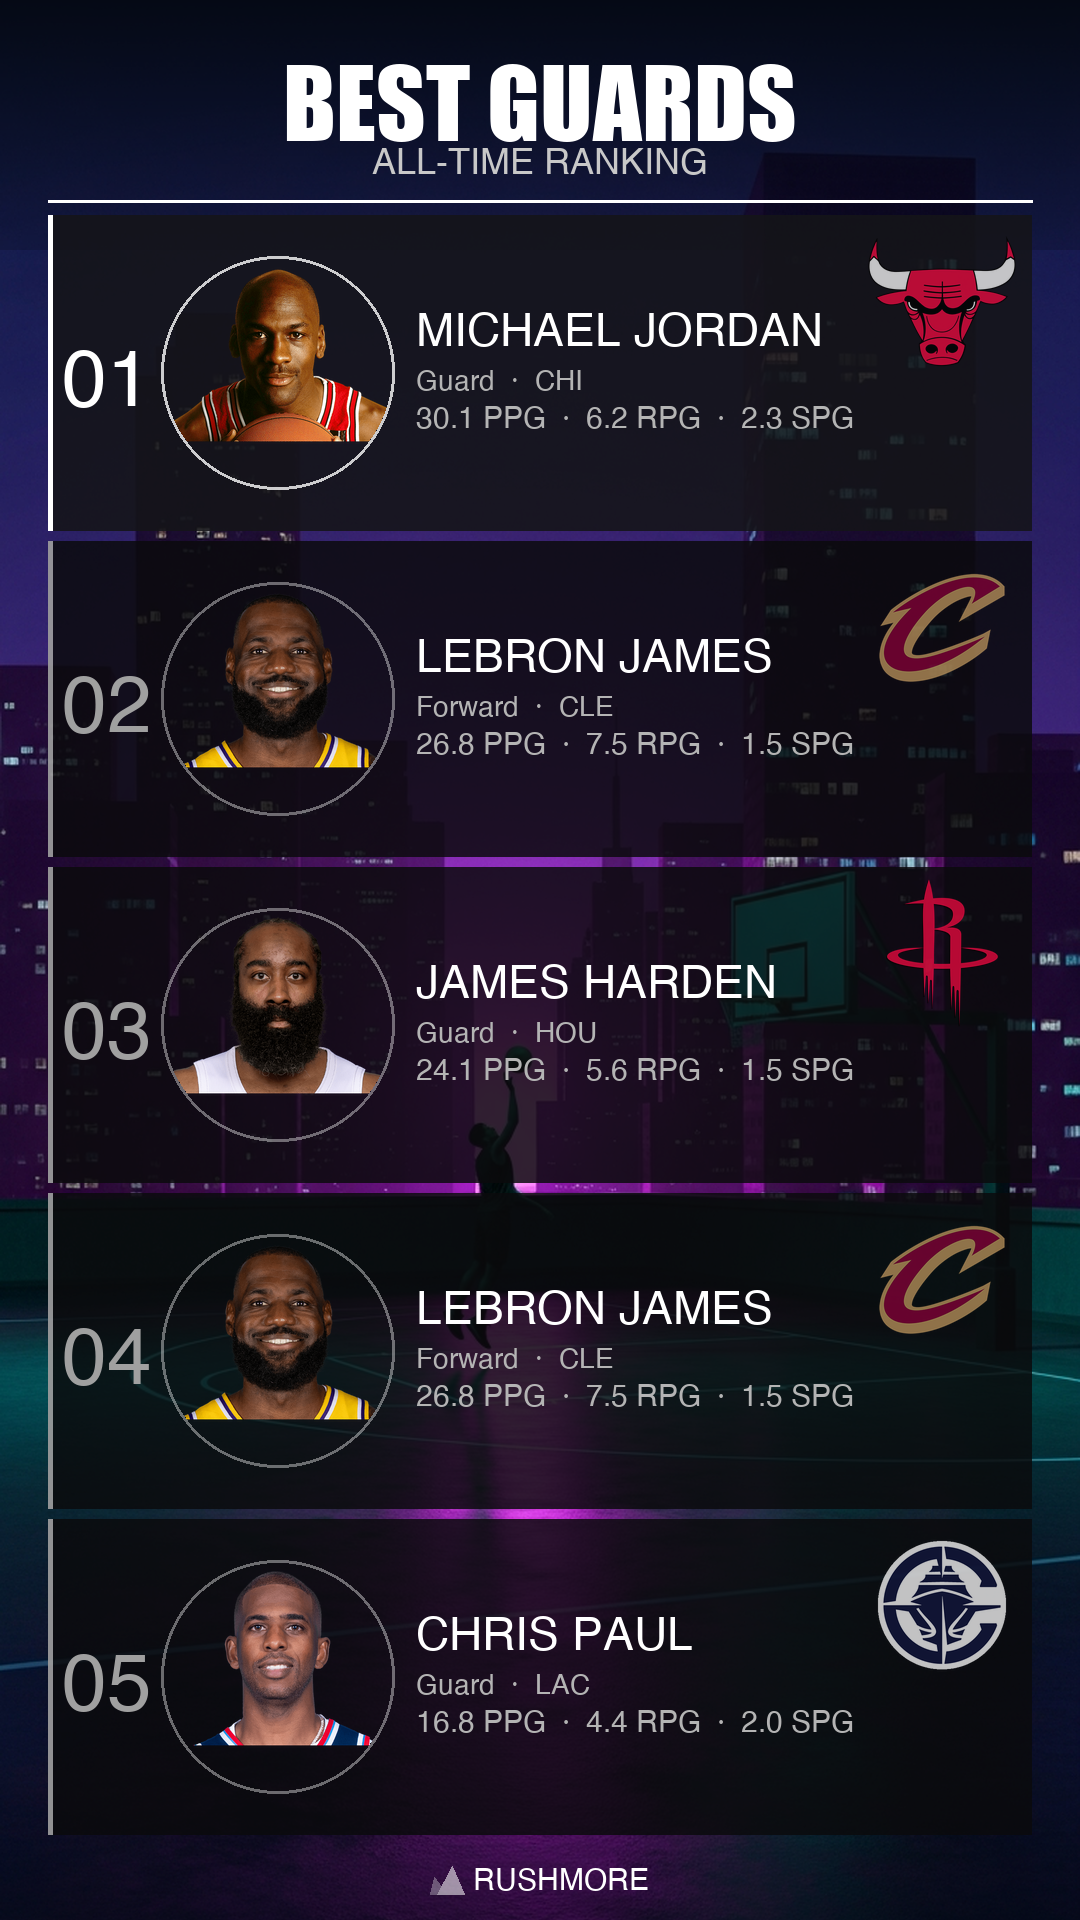
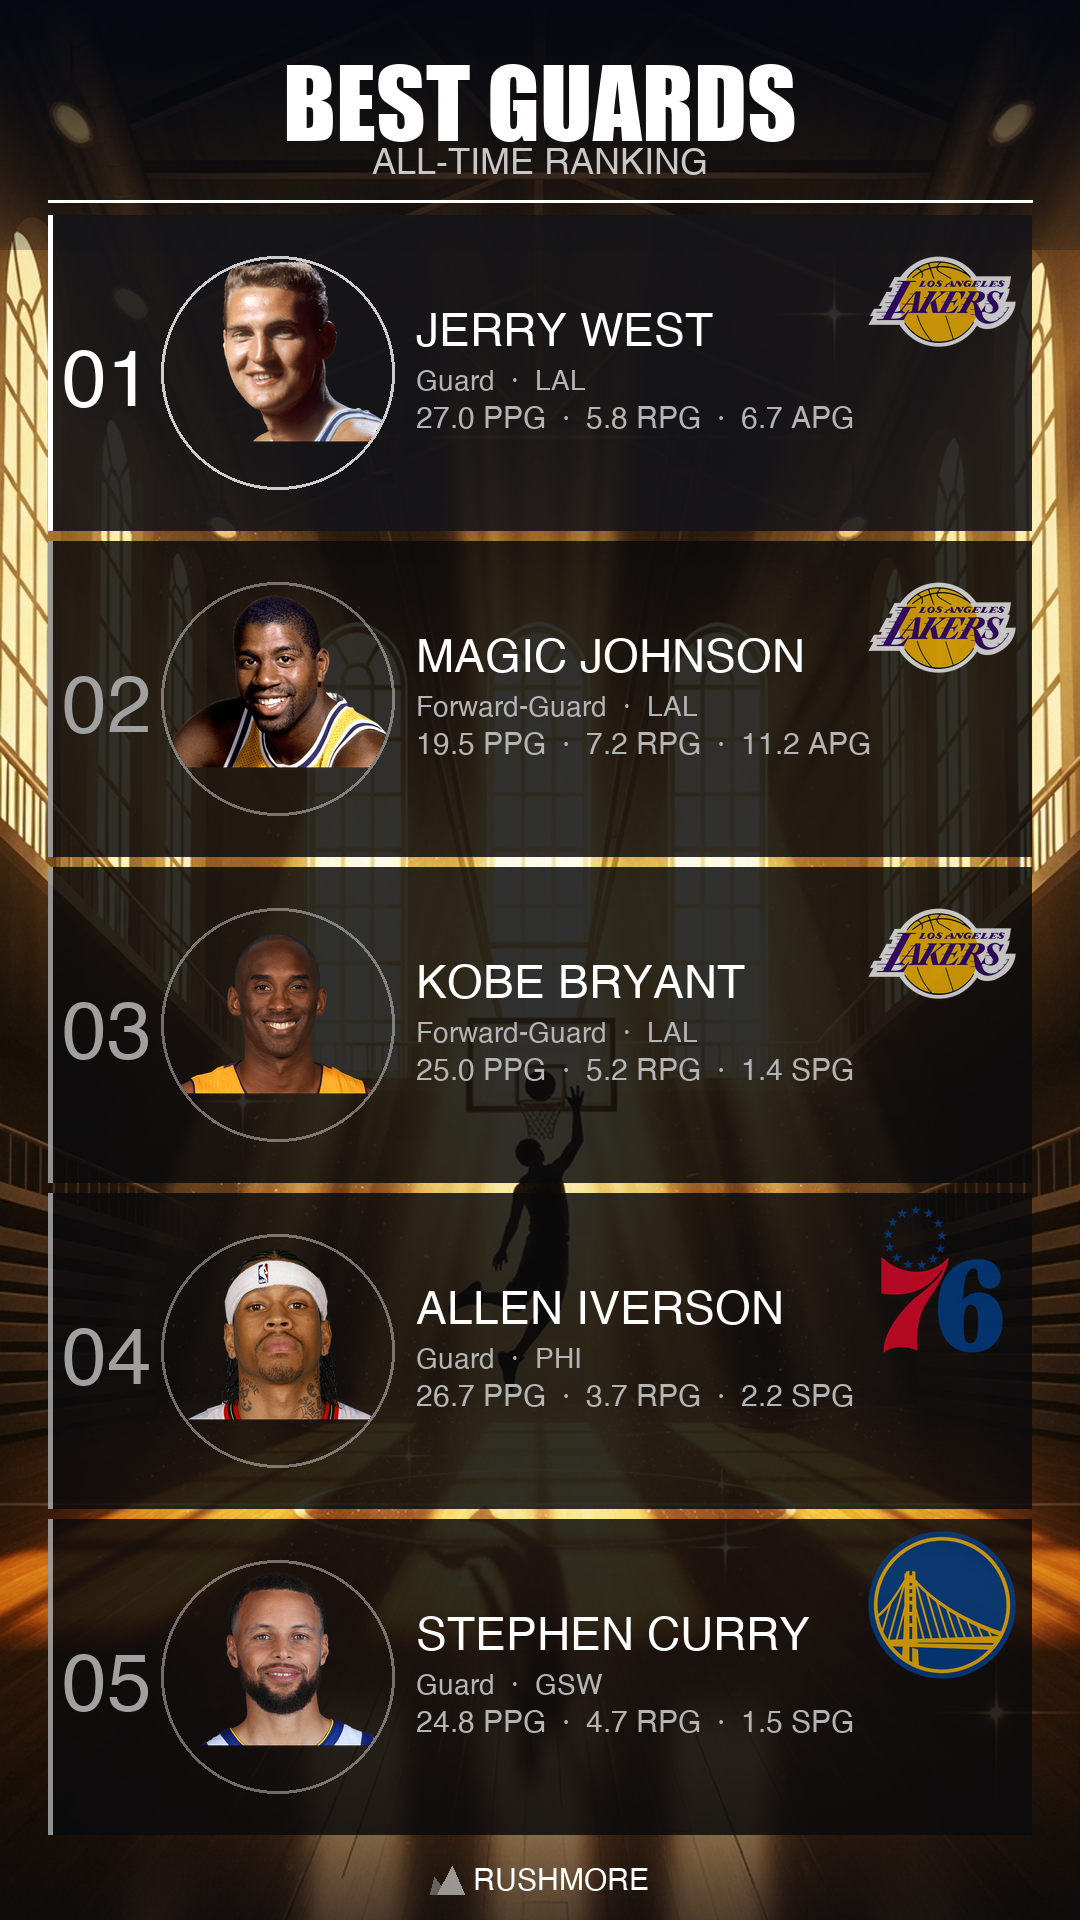
fix: replace duplicate-LeBron showcase card + reliable touch events for bracket slots
- showcase-3.png: new Best Guards card (West/Magic/Kobe/Iverson/Curry), no more duplicate LeBron
- Bracket SlotBox: switch onClick → onPointerUp + touch-action:manipulation for Android reliability
- Bracket ChampionZone: same onPointerUp fix, larger touch target in touchMode

diff --git a/web/src/app/categories/teams/page.tsx b/web/src/app/categories/teams/page.tsx
@@ -389,11 +389,12 @@ function SlotBox({ idx, slots, onAssign, onClear, touchMode, selectedTeam }: {
 
   const canReceive = touchMode && !!selectedTeam && !code;
 
-  const handleClick = () => {
-    if (touchMode) {
-      if (selectedTeam && !code) onAssign(idx, selectedTeam);
-      else if (code) onClear(idx);
-    }
+  const handleTap = (e: React.PointerEvent) => {
+    if (!touchMode) return;
+    e.preventDefault();
+    e.stopPropagation();
+    if (selectedTeam && !code) onAssign(idx, selectedTeam);
+    else if (code) onClear(idx);
   };
 
   return (
@@ -406,9 +407,12 @@ function SlotBox({ idx, slots, onAssign, onClear, touchMode, selectedTeam }: {
         const c = e.dataTransfer.getData("text/plain");
         if (c) onAssign(idx, c);
       } : undefined}
-      onClick={touchMode ? handleClick : (code ? () => onClear(idx) : undefined)}
+      onPointerUp={touchMode ? handleTap : undefined}
+      onClick={!touchMode && code ? () => onClear(idx) : undefined}
+      style={touchMode ? { touchAction: "manipulation" } : undefined}
       className={cn(
-        "flex items-center gap-1 rounded border px-1.5 py-1 w-full min-w-0 transition-all",
+        "flex items-center gap-1 rounded border w-full min-w-0 transition-all",
+        touchMode ? "px-1.5 py-2.5" : "px-1.5 py-1",
         touchMode && (canReceive || code) && "cursor-pointer",
         over ? "border-gold bg-gold/15" :
         canReceive ? "border-gold/60 bg-gold/8 animate-pulse" :
@@ -422,7 +426,8 @@ function SlotBox({ idx, slots, onAssign, onClear, touchMode, selectedTeam }: {
       </span>
       {code && (
         <button
-          onClick={e => { e.stopPropagation(); onClear(idx); }}
+          onPointerUp={touchMode ? e => { e.stopPropagation(); onClear(idx); } : undefined}
+          onClick={!touchMode ? e => { e.stopPropagation(); onClear(idx); } : undefined}
           className="shrink-0 text-text-tertiary hover:text-red-400"
         >
           <X className="h-2.5 w-2.5" />
@@ -734,10 +739,13 @@ function BracketTab() {
               <div
                 onDragOver={!touchMode ? e => e.preventDefault() : undefined}
                 onDrop={!touchMode ? e => { e.preventDefault(); const c = e.dataTransfer.getData("text/plain"); if (c) assign(30, c); } : undefined}
-                onClick={touchMode ? () => {
+                onPointerUp={touchMode ? e => {
+                  e.preventDefault();
+                  e.stopPropagation();
                   if (selectedTeam && !slots[30]) assign(30, selectedTeam);
                   else if (slots[30]) clear(30);
                 } : undefined}
+                style={touchMode ? { touchAction: "manipulation" } : undefined}
                 className={cn(
                   "flex flex-col items-center justify-center gap-1.5 rounded-xl border-2 py-3 px-4 w-full max-w-[170px] transition-all",
                   touchMode && (selectedTeam && !slots[30]) && "cursor-pointer",
@@ -754,12 +762,14 @@ function BracketTab() {
                       <img src={getTeamLogoUrl(slots[30])!} alt={slots[30]} className="h-9 w-9 object-contain" />
                     )}
                     <span className="text-xs font-black text-gold">{slots[30]}</span>
-                    <button onClick={e => { e.stopPropagation(); clear(30); }} className="text-[9px] text-text-tertiary hover:text-red-400">remove</button>
+                    <button
+                      onPointerUp={e => { e.stopPropagation(); clear(30); }}
+                      className="text-[9px] text-text-tertiary hover:text-red-400"
+                    >remove</button>
                   </>
                 ) : (
                   <span className="text-[9px] text-text-tertiary text-center leading-tight">
-                    {touchMode ? "Champion" : "Champion"}<br/>
-                    {touchMode ? "tap here" : "drop here"}
+                    Champion<br/>{touchMode ? "tap here" : "drop here"}
                   </span>
                 )}
               </div>
